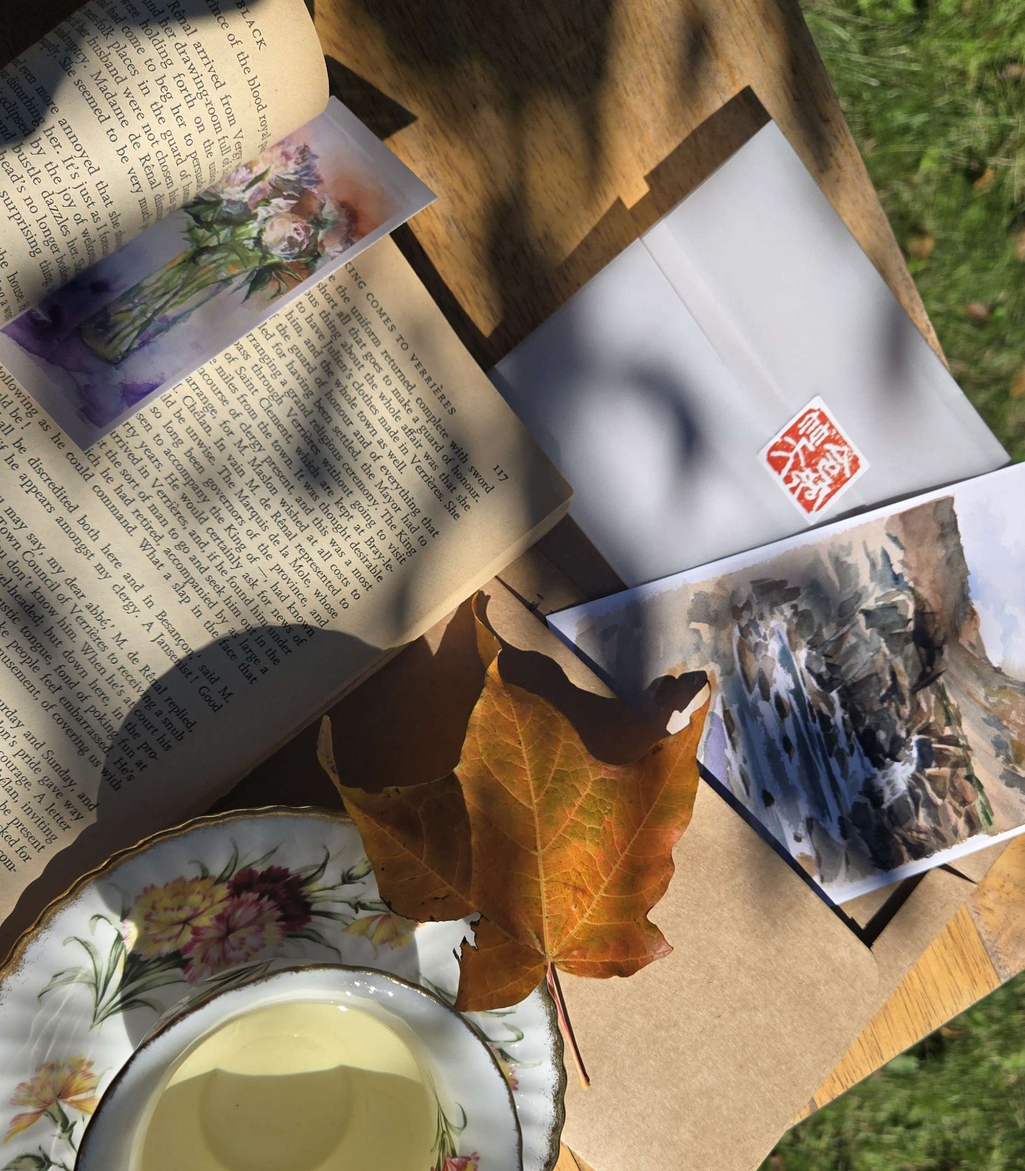
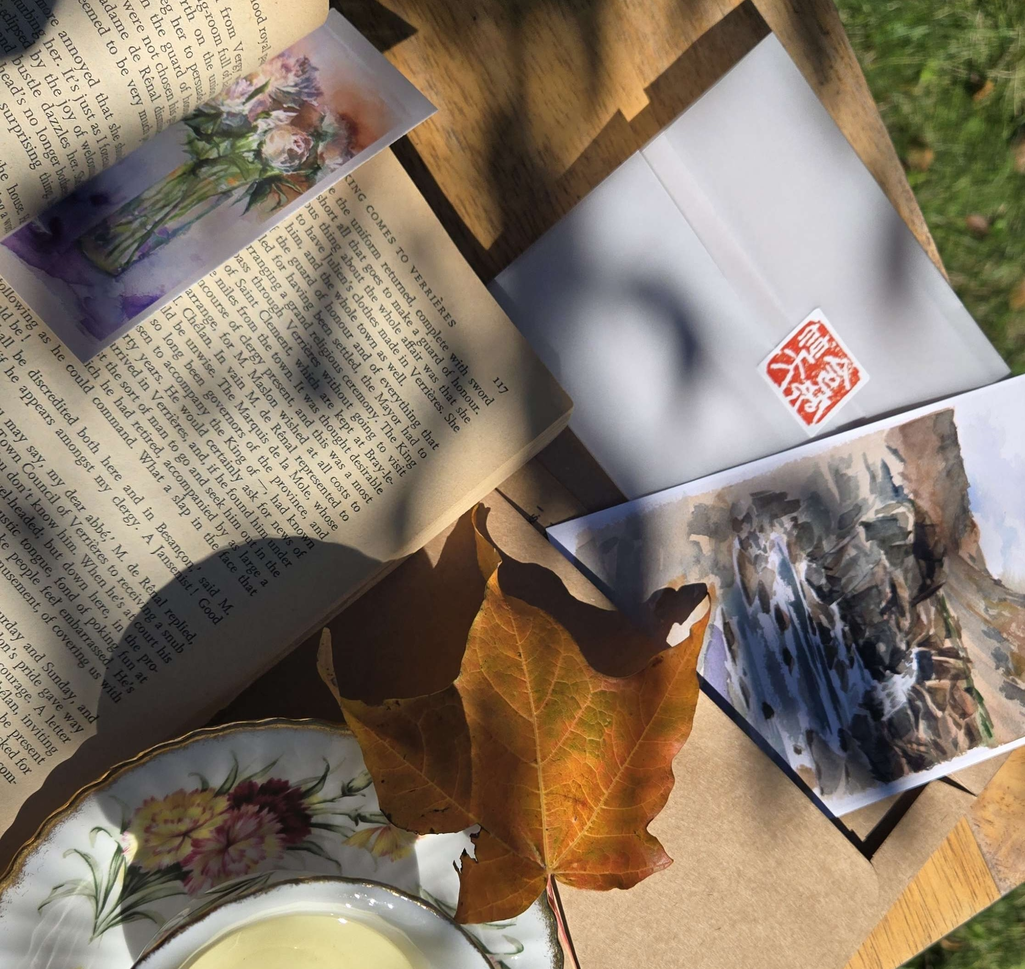
small fixes on mail club page

diff --git a/site-react/src/pages/MailClub.jsx b/site-react/src/pages/MailClub.jsx
@@ -75,7 +75,7 @@ export default function MailClub() {
             Every month, one friend in the club receives an extra surprise in their envelope. It’s a one-of-one piece, made for one person, and it will never be sent to anyone else.
           </b>
           </p>
-          <p>Come walk with me</p>
+          <p>Come walk with me.</p>
           <p>
             Choose the subscription option for your shipping destination above to join the Mail Club.
           </p>
